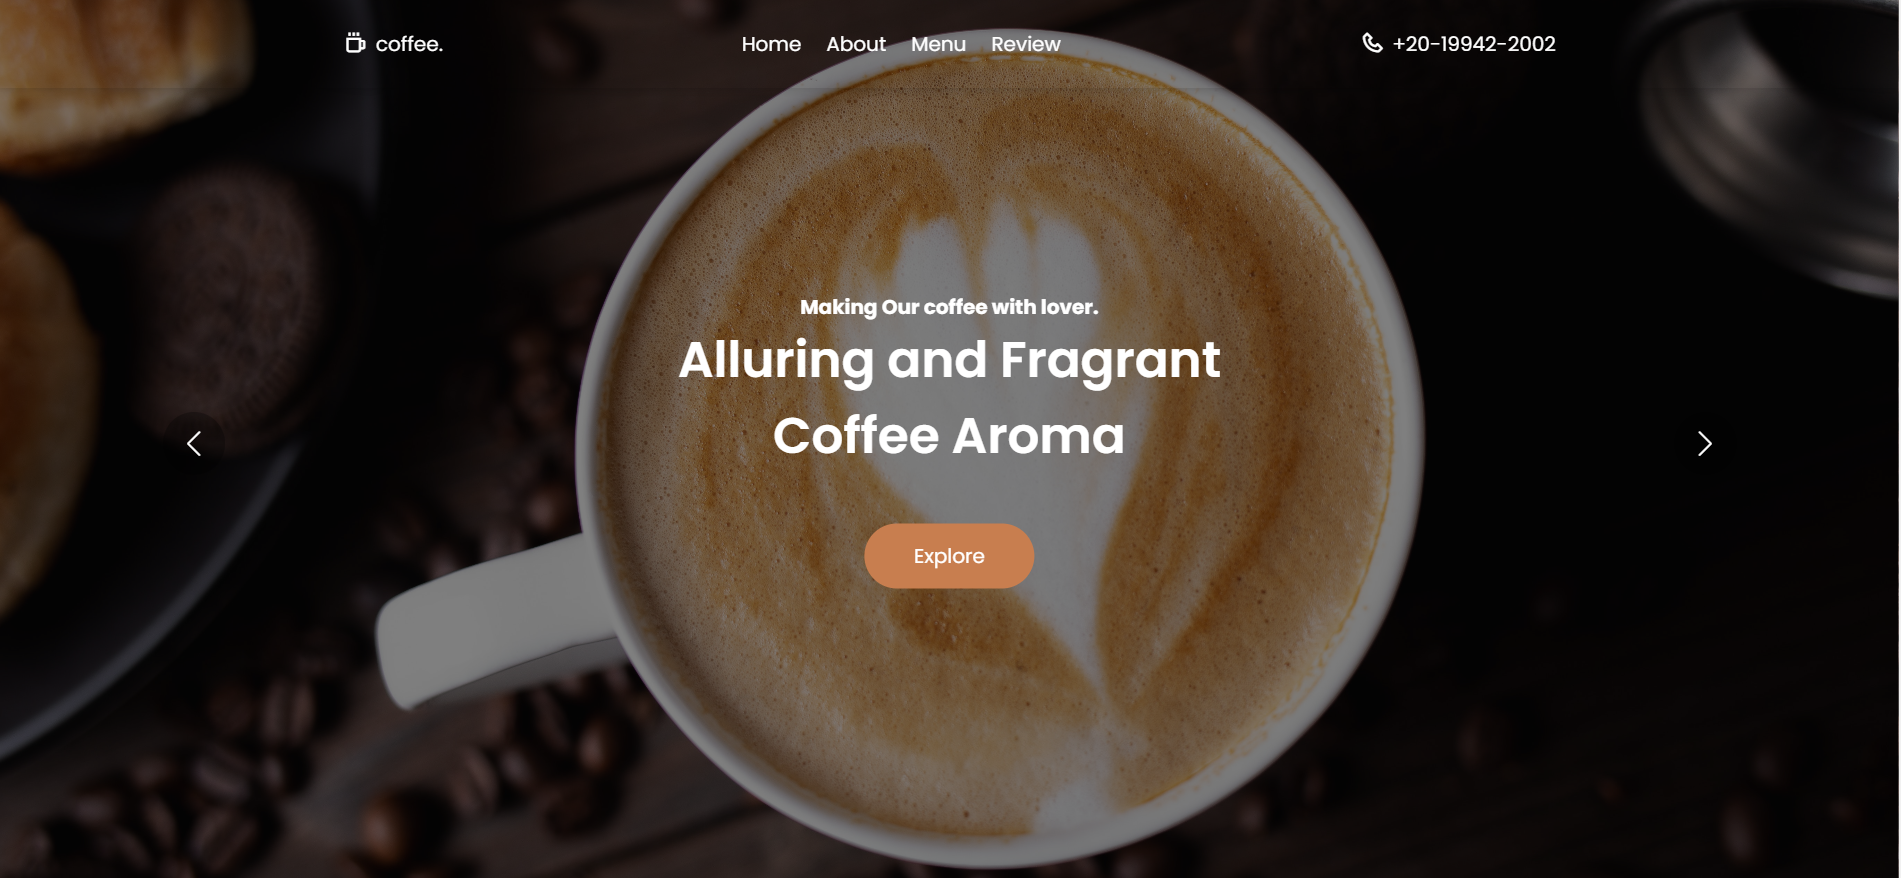
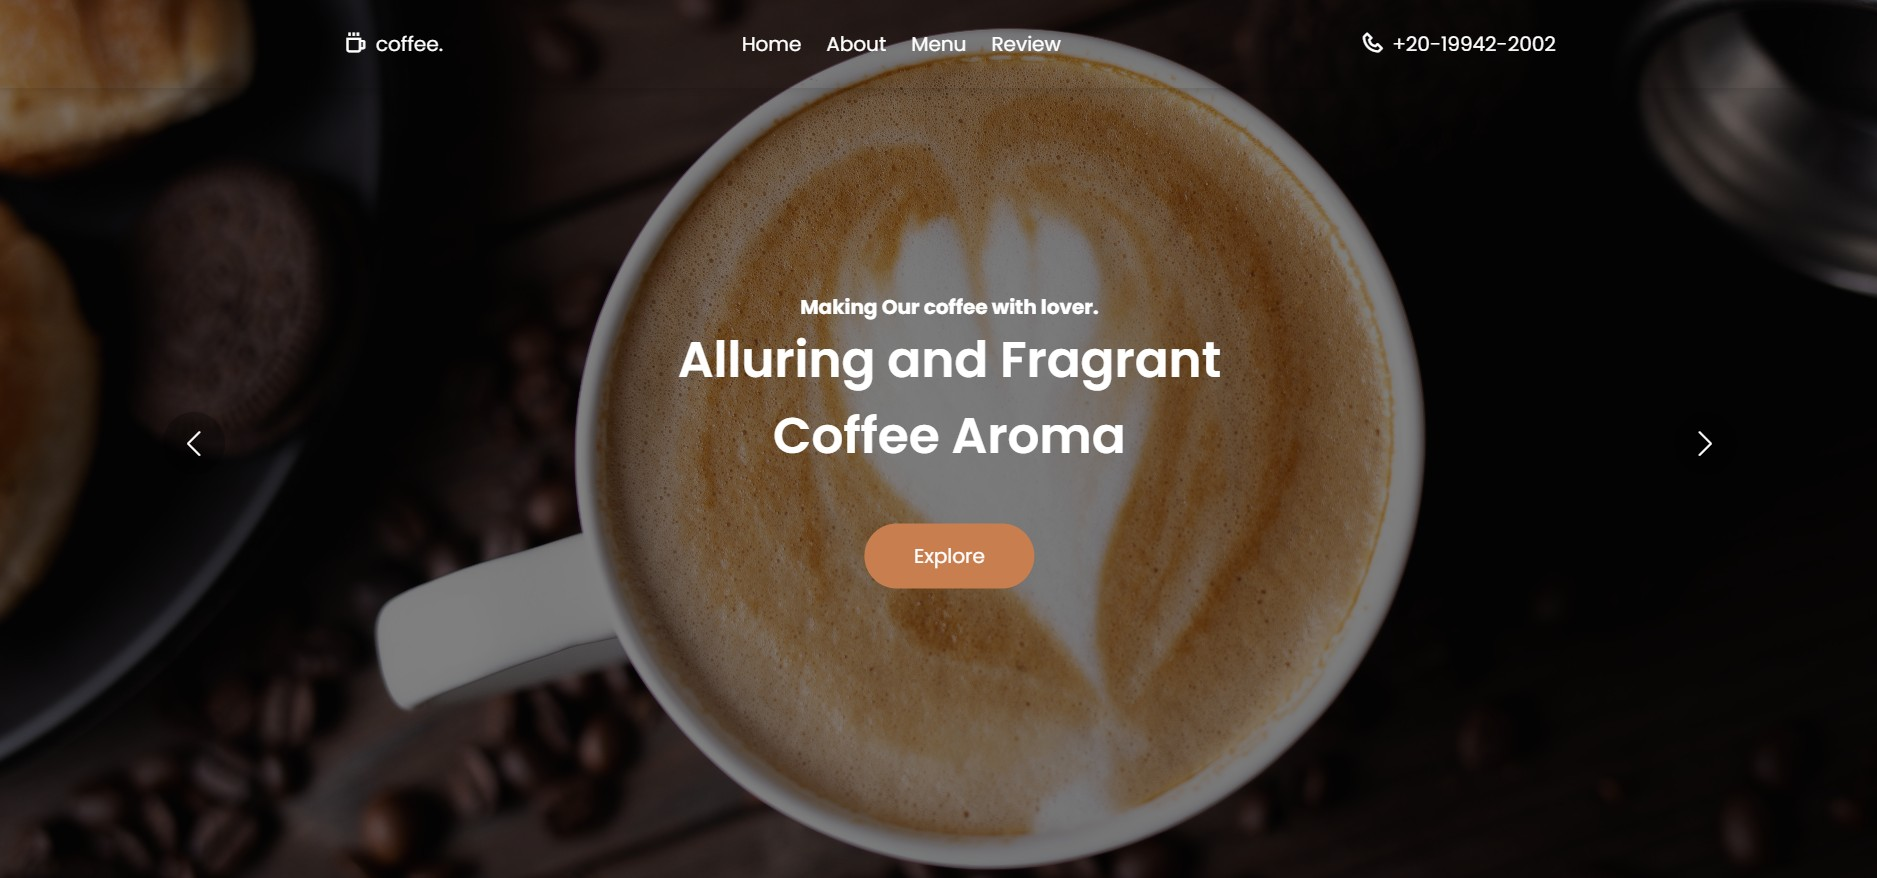
add project

diff --git a/css/style.css b/css/style.css
@@ -321,7 +321,7 @@ span {
   left: 0;
   width: 100%;
   height: 100%;
-  background: linear-gradient(rgba(0, 0, 0, 0.1), var(--main-color));
+  background: linear-gradient(rgba(0, 0, 0, 0.9), var(--main-color));
   display: flex;
   justify-content: center;
   align-items: center;
@@ -354,7 +354,7 @@ span {
   color: var(--snd-bg-color);
 }
 .portfolio-box:hover.portfolio-layer a i {
-  color: var(--main-color);
+  color: var(--switch-bg);
 }
 .contact h2,
 .skills h2 {
